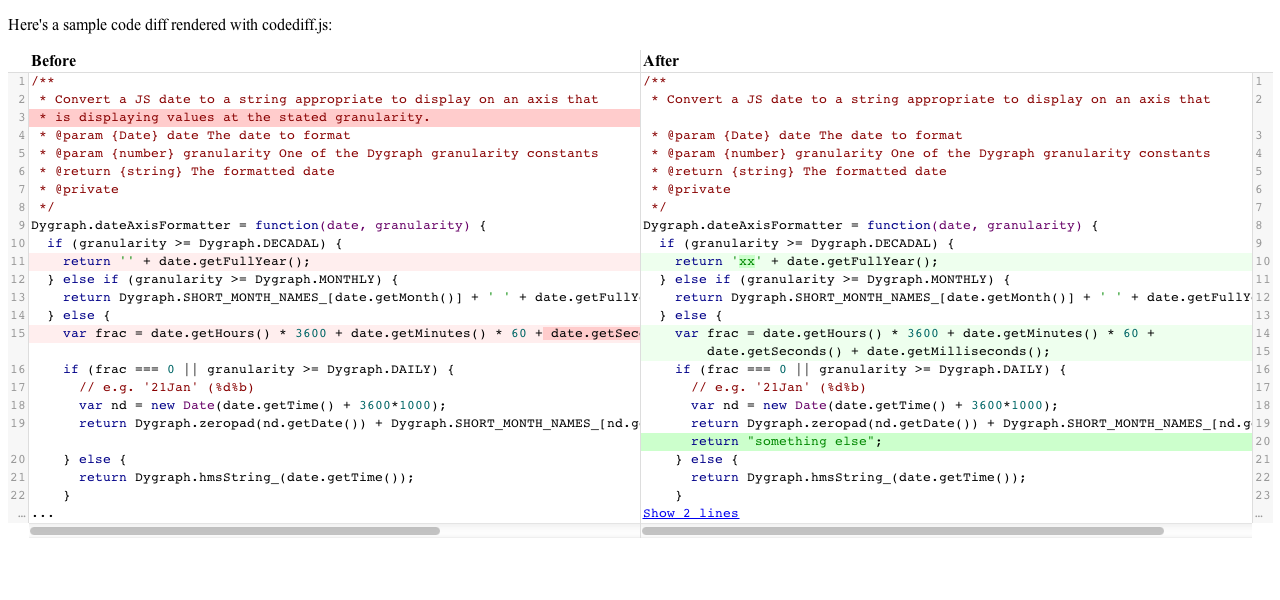
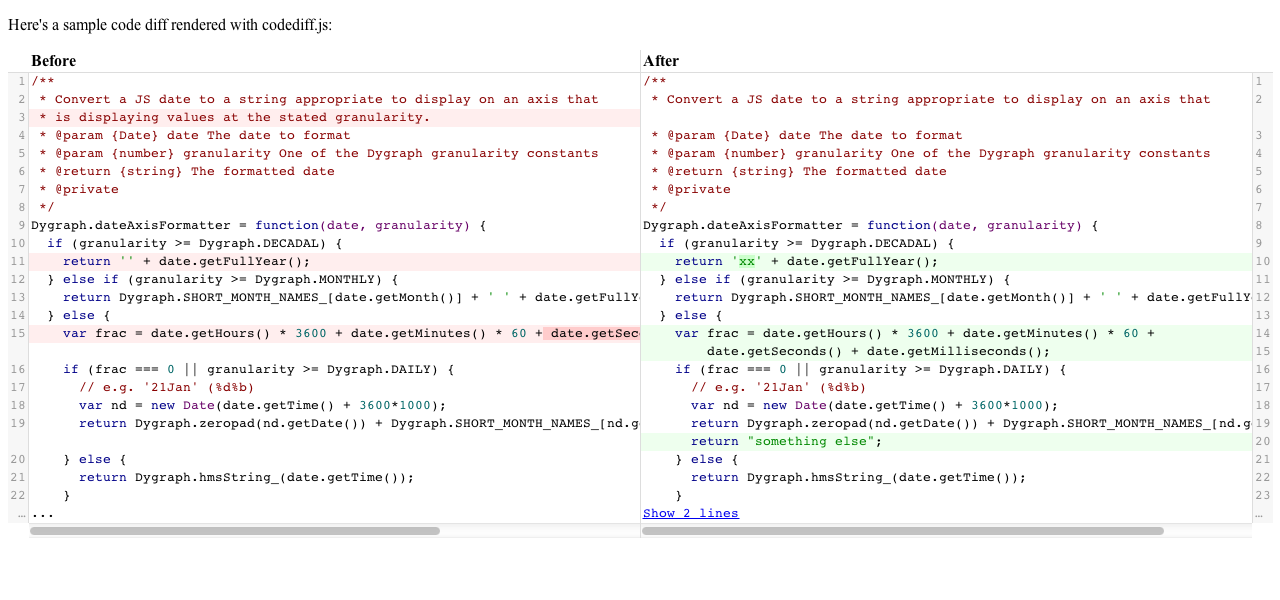
more consistent coloring of add/delete

Changed region(s): [[0.5, 0.72, 1.0, 0.75], [0.0, 0.18, 0.5, 0.21]]

diff --git a/codediff.css b/codediff.css
@@ -79,10 +79,10 @@
 }
 
 .diff .delete {
-  background-color: #fcc;
+  background-color: #fee;
 }
 .diff .insert {
-  background-color: #cfc;
+  background-color: #efe;
 }
 
 .diff-left-content .replace {
